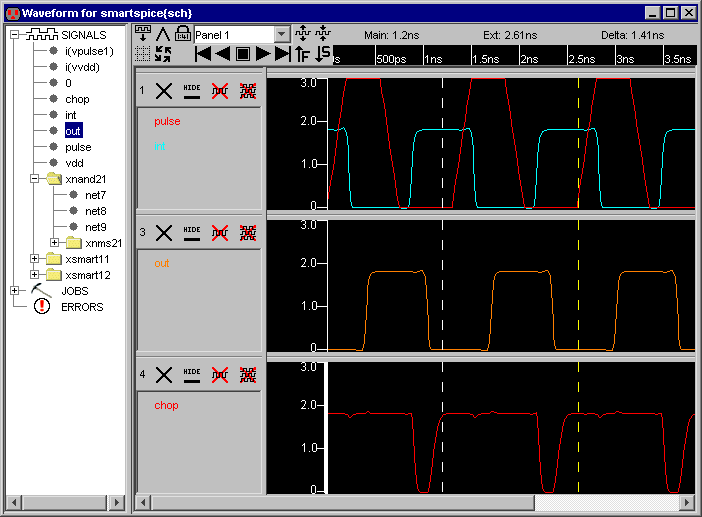
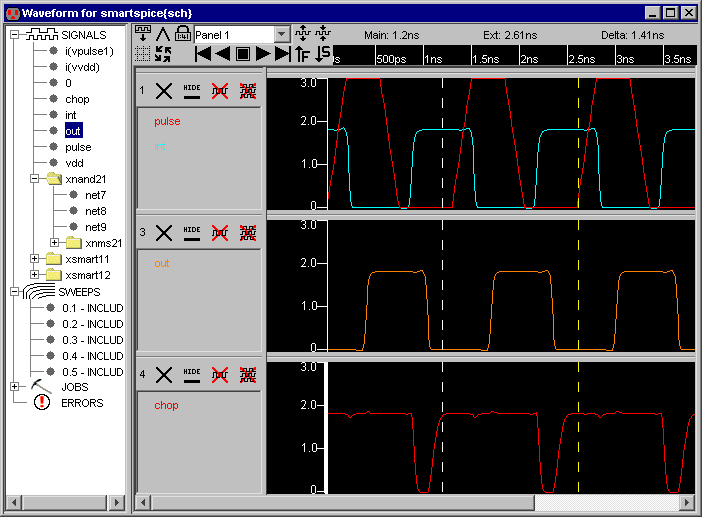
fixes
git-svn-id: https://svn.java.net/svn/electric~svn/trunk@2091 b64ed6c1-75a8-e629-b1da-d0dae74a743a

Changed region(s): [[0.0, 0.5261, 0.1795, 0.8046]]

diff --git a/srcj/com/sun/electric/tool/user/help/helphtml/chap08-04-05.html b/srcj/com/sun/electric/tool/user/help/helphtml/chap08-04-05.html
@@ -45,8 +45,15 @@ You can change the color of a signal by right-clicking on its name.
 You can add a signal to the list by double-clicking on its name in the "SIGNALS" area
 (or by dragging that name to the waveform part on the right).
 The signal will be added to the highlighted panel (the one with the bold vertical axis).
+<TABLE><TR><TD>
 You can create a new panel, with no signals in it, by clicking on the button in the upper-left of the waveform window
 (a panel-with-waveform icon being dropped down).
+</TD><TD><CENTER><IMG SRC="fig09-29.png" ALT="Figure 9.29"></CENTER></TD></TR></TABLE>
+<P>
+If the simulation had sweeps, those values are shown in the explorer tree in the "SWEEPS" area.
+You can right-click on a sweep and choose to include or exclude it from the display.
+You can also request that a sweep signal be highlighted.
+Right-clicking on the "SWEEPS" icon lets you include or exclude all of them.
 <P>
 If the layout or schematics cell that produced the verilog is being displayed in another window,
 and the currently selected network in that window is found in the Verilog output,
@@ -77,11 +84,17 @@ The pan tool lets you smoothly shift time when you click and drag.
 In the zoom tool, you zoom into an area by clicking and dragout out that area.
 To zoom out, hold the shift key and click in the center of the desired area.
 <P>
+<TABLE><TR><TD>
+You can control the horizontal and vertical range precisely by double-clicking in the vertical scale area.
+</TD><TD><CENTER><IMG SRC="fig09-13.png" ALT="Figure 9.13"></CENTER></TD></TR></TABLE>
+<P>
+<TABLE><TR><TD>
 The different panels in the waveform window are locked in time: they all show the same range of time,
 as shown at the top of the waveform window.
 If you click on the "time lock" button at the top of the waveform window (a lock with the time on it)
 then time is unlocked, and each panel has its own time scale.
 Now individual panels can be show a different range of time than the rest.
+</TD><TD><CENTER><IMG SRC="fig09-18.png" ALT="Figure 9.18"></CENTER></TD></TR></TABLE>
 <P>
 A set of VCR buttons is available to animation the main time cursor.
 The Play rate can be controlled by the "F" and "S" buttons which make it go faster or slower.
@@ -106,8 +119,27 @@ At the top of the waveform window, above the signal names, are many useful contr
 Those relating to time have already been discussed.
 Here are the remaining buttons:
 <UL>
-<LI><B>"Refresh"</B> Rereads the simultion output file and updates the display.
-If the simulator is re-run, and the output file is different, then this button shows the new date.</LI>
+<LI>
+<TABLE><TR><TD>
+<B>"Refresh"</B> Rereads the simultion output file and updates the display.
+If the simulator is re-run, and the output file is different, then this button shows the new date.
+</TD><TD><CENTER><IMG SRC="fig09-28.png" ALT="Figure 9.28"></CENTER></TD></TR></TABLE>
+</LI>
+
+<LI>
+<TABLE><TR><TD>
+<B>"Show Vertices"</B> Displays dots on the vertices of the waveforms.
+The button toggles between showing and not-showing the vertex dots.
+</TD><TD><CENTER><IMG SRC="fig09-19.png" ALT="Figure 9.19"></CENTER></TD></TR></TABLE>
+</LI>
+
+<LI>
+<TABLE><TR><TD>
+<B>"Show Grid"</B> Displays a grid in the waveform panels.
+The button toggles between showing and not-showing the grid.
+</TD><TD><CENTER><IMG SRC="fig09-27.png" ALT="Figure 9.27"></CENTER></TD></TR></TABLE>
+</LI>
+
 <LI><B>The Panel popup</B> This is a list of all panels, including the hidden ones.
 Selecting a panel from this list toggles its "hidden" state, making a visible one disappear,
 and making a hidden one reappear.</LI>

diff --git a/srcj/com/sun/electric/tool/user/help/helphtml/chap03-07-01.html b/srcj/com/sun/electric/tool/user/help/helphtml/chap03-07-01.html
@@ -7,11 +7,11 @@
 <!-- COMMAND Cell/Cell Info/List Cell Instances -->
 <!-- COMMAND Edit/Info/List Layer Coverage -->
 
+<TABLE><TR><TD>
 To get some basic information about the current cell
 (size, dates, etc) use the <B>Describe this Cell</B> command
 (in menu <B>Cell / Cell Info</B>).
 <P>
-<TABLE><TR><TD><CENTER><IMG SRC="fig03-21.png" ALT="Figure 3.21"></CENTER></TD><TD>
 To get information about more than one cell, use the <B>General Cell Lists...</B> command.
 The dialog selects a subset of the cells in the current library.
 <P>
@@ -29,7 +29,7 @@ The section labeled "Display ordering:" controls the order in which the selected
 <P>
 The section labeled "Destination:" allows you to dump this listing to a disk file,
 formatted for spreadsheets (tab-separated).
-</TD></TR></TABLE>
+</TD><TD><CENTER><IMG SRC="fig03-21.png" ALT="Figure 3.21"></CENTER></TD></TR></TABLE>
 <P>
 The last six columns show the usage and five state bits.
 The usage is the number of times that this cell appears as an instance in other cells.

diff --git a/srcj/com/sun/electric/tool/user/help/helphtml/chap06-10-01.html b/srcj/com/sun/electric/tool/user/help/helphtml/chap06-10-01.html
@@ -4,6 +4,7 @@ For some primitive nodes, it is not enough to rotate, mirror, and scale.
 These primitives can to be augmented with an <I>outline</I>,
 which is a polygonal description.
 <P>
+<TABLE><TR><TD><CENTER><IMG SRC="fig06-17.png" ALT="Figure 6.17"></CENTER></TD><TD>
 There are quite a few primitive nodes that make use of outline information.
 The MOS transistors use the outline to define the gate path in serpentine configurations
 (see <A HREF="chap07-04-01.html#chap07-04-01">Section 7-4-1</A>).
@@ -12,7 +13,6 @@ Opened-Solid-Polygon, Opened-Dotted-Polygon, Opened-Dashed-Polygon,
 Opened-Thicker-Polygon, Closed-Polygon, Filled-Polygon, and Spline
 (see <A HREF="chap07-06-01.html#chap07-06-01">Section 7-6-1</A>).
 <P>
-<TABLE><TR><TD><CENTER><IMG SRC="fig06-17.png" ALT="Figure 6.17"></CENTER></TD><TD>
 For arbitrary shapes on arbitrary layers,
 use the <I>pure-layer</I> nodes in the IC layout technologies.
 The pure-layer nodes are found under the "Pure" entry in the component menu.

diff --git a/srcj/com/sun/electric/tool/user/help/helphtml/chap02-01-01.html b/srcj/com/sun/electric/tool/user/help/helphtml/chap02-01-01.html
@@ -45,7 +45,6 @@ The resulting dialog lets you select nodes, arcs, exports, or networks in the ce
 To select everything in the cell,
 use the <B>Select All</B> command (in menu <B>Edit / Selection</B>).
 To deselect everything, use <B>Select Nothing</B>.
-</TD><TD><CENTER><IMG SRC="fig02-14.png" ALT="Figure 2.14"></CENTER></TD></TR></TABLE>
 <P>
 To select everything in the cell that is the same as the currently selected objects,
 use the <B>Select All Like This</B> command (in menu <B>Edit / Selection</B>).
@@ -53,5 +52,6 @@ use the <B>Select All Like This</B> command (in menu <B>Edit / Selection</B>).
 The <B>Deselect All Arcs</B> command deselects all selected arcs.
 This is useful when you wish to select a set of nodes,
 but you have selected the entire area, including nodes and arcs.
+</TD><TD><CENTER><IMG SRC="fig02-14.png" ALT="Figure 2.14"></CENTER></TD></TR></TABLE>
 
 <!-- TRAILER -->

diff --git a/srcj/com/sun/electric/tool/user/help/helphtml/chap02-02-01.html b/srcj/com/sun/electric/tool/user/help/helphtml/chap02-02-01.html
@@ -49,7 +49,8 @@ These objects can be created with the "Misc" button:
 (see <A HREF="chap08-04-02.html#chap08-04-02">Section 8-4-2</A>).</LI>
 <LI><B>Verilog Declaration</B> places a text-only node that will be inserted into the declaration area of Verilog decks
 (see <A HREF="chap08-04-02.html#chap08-04-02">Section 8-4-2</A>).</LI>
-<LI><B>Simulation Probe</B> places a node that can be used to display simulation results.</LI>
+<LI><B>Simulation Probe</B> places a node that can be used to display simulation results
+(see <A HREF="chap08-04-03.html#chap08-04-03">Section 8-4-3</A>).</LI>
 <LI><B>DRC Exclusion</B> places a node that covers DRC errors and causes them to be ignored
 (see <A HREF="chap08-02-02.html#chap08-02-02">Section 8-2-2</A>).</LI>
 <LI><B>Invisible Pin</B> places an invisible-pin node

diff --git a/srcj/com/sun/electric/tool/user/help/helphtml/chap08-06.html b/srcj/com/sun/electric/tool/user/help/helphtml/chap08-06.html
@@ -65,13 +65,14 @@ To compare two cells, use these commands (in menu <B>Tool / NCC</B>):
    because NCC Size Checking is presently disabled because it is not
    yet ready for general distribution.
 <p>
-<TABLE><TR><TD>
-
-
    In the "Checking All Cells" panel the "Halt after finding the first
    mismatched Cell" check box determines whether the command "Flat NCC
    each cell in the design, current cell is root" stops when it finds
-   the first mismatching Cell. It's generally a good idea to stop
+   the first mismatching Cell. 
+<P>
+<TABLE><TR><TD>
+
+   It's generally a good idea to stop
    because an error in a child Cell often creates many errors in its
    parents.  Once you fix the child Cell a second invocation of the
    command will continue where it left off. The command remembers

diff --git a/srcj/com/sun/electric/tool/user/help/helphtml/chap08-08.html b/srcj/com/sun/electric/tool/user/help/helphtml/chap08-08.html
@@ -1,7 +1,11 @@
 <!-- HEADER 8-8: Logical Effort -->
 
 <!-- COMMAND Tool/Logical Effort/Optimize for Equal Gate Delays -->
+<!-- COMMAND Tool/Logical Effort/Optimize for Equal Gate Delays (no caching) -->
 <!-- COMMAND Tool/Logical Effort/Print Info for Selected Node -->
+<!-- COMMAND Tool/Logical Effort/Back Annotate Wire Lengths for Current Cell -->
+<!-- COMMAND Tool/Logical Effort/Clear Sizes on Selected Node(s) -->
+<!-- COMMAND Tool/Logical Effort/Clear Sizes in all Libraries -->
 
 The Logical Effort tool examines a digital schematic and determines the optimal transistor size to use in order to get maximum speed.
 The tool is based on the book <A HREF="http://www.mkp.com/books_catalog/catalog.asp?ISBN=1-55860-557-6"><I>Logical Effort</I></A>,

diff --git a/srcj/com/sun/electric/tool/user/help/helphtml/chap05-02-01.html b/srcj/com/sun/electric/tool/user/help/helphtml/chap05-02-01.html
@@ -21,10 +21,10 @@ If that bottom node moves down, the arc simply stretches without affecting the o
 If the bottom node moves down and to the left, the arc both moves and stretches.
 Rotation of nodes causes no change to fixed-angle arcs unless the arc is connected to an off-center port,
 in which case a slight translation and stretch may occur.
+</TD><TD><CENTER><IMG SRC="fig05-01.png" ALT="Figure 5.1"></CENTER></TD></TR></TABLE>
 <P>
 Most IC layout is done with Manhattan geometry.
 If you suspect that some of your wires have become skewed, use the <B>Show Nonmanhattan</B>
 command (in menu <B>Edit / Cleanup Cell</B>).
-</TD><TD><CENTER><IMG SRC="fig05-01.png" ALT="Figure 5.1"></CENTER></TD></TR></TABLE>
 
 <!-- TRAILER -->

diff --git a/srcj/com/sun/electric/tool/user/help/helphtml/chap03-10.html b/srcj/com/sun/electric/tool/user/help/helphtml/chap03-10.html
@@ -11,10 +11,10 @@ It may be simpler to copy the cells from one library to another,
 thus allowing a single library to contain the entire design.
 <P>
 The <B>Cross-Library Copy...</B> command (in menu <B>Cell</B>) provides a dialog for copying cells between libraries.
-<P>
-<TABLE><TR><TD>
 The left and right columns show the contents of two different libraries
 (and the pulldowns above each column let you select the two libraries that you want to use).
+<P>
+<TABLE><TR><TD>
 When there is a cell with the same name in both libraries,
 the system compares modification dates to determine which is newer, 
 The "Examine Contents"

diff --git a/srcj/com/sun/electric/tool/user/help/helphtml/chap03-11-04.html b/srcj/com/sun/electric/tool/user/help/helphtml/chap03-11-04.html
@@ -21,8 +21,9 @@ To control the look of the icons, use the
 "Icon" preferences (in menu <B>File / Preferences...</B>, "Technology" section, "Icon" tab).
 The top part of the dialog lets you place each of the different export types on any of the four sides of the icon.
 <P>
-<TABLE><TR><TD>
 The middle section of the dialog controls the body and leads of the icon.
+<P>
+<TABLE><TR><TD>
 You can choose whether or not to draw the body and leads.
 You can set the spacing and length of leads.
 You can choose the location of the exports (at the end of the leads,

diff --git a/srcj/com/sun/electric/tool/user/help/helphtml/chap05-02-03.html b/srcj/com/sun/electric/tool/user/help/helphtml/chap05-02-03.html
@@ -1,7 +1,8 @@
 <!-- HEADER 5-2-3: Constraint Propagation -->
 
-<TABLE><TR><TD VALIGN=TOP>
 The last of Electric's constraints is the only one that is not actually programmable by the user.
+<P>
+<TABLE><TR><TD VALIGN=TOP>
 This is the constraint that all arcs must stay in their ports, even across hierarchical levels of design.
 When a node in a cell moves, and has an export on it, all the ports on instances of that cell also change.
 The constraint system therefore adjusts all arcs connected to those instances,

diff --git a/srcj/com/sun/electric/tool/user/help/helphtml/chap05-05.html b/srcj/com/sun/electric/tool/user/help/helphtml/chap05-05.html
@@ -17,8 +17,9 @@ It is typically a "Pin" node (see <A HREF="chap07-01-01.html#chap07-01-01">Secti
 If changed to a node with geometry (such as a contact node) then these contacts will be placed
 at the bends of this arc.
 <P>
-<TABLE><TR><TD>
 The checkboxes in the "Default State" section have these meanings:
+<P>
+<TABLE><TR><TD>
 <UL>
 <LI>Rigid - whether the arc is rigid in length and relationship to its nodes
 (see <A HREF="chap05-02-01.html#chap05-02-01">Section 5-2-1</A>).</LI>
